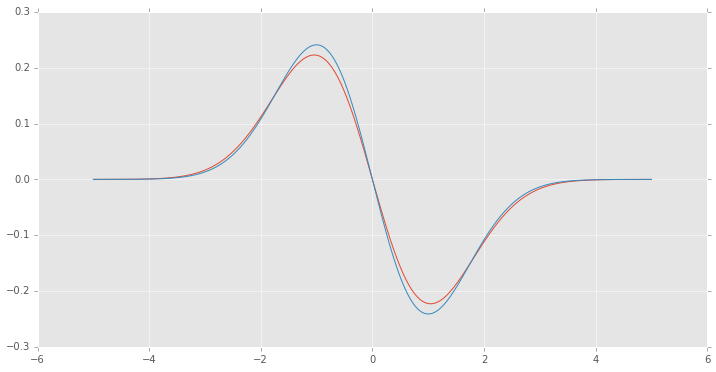
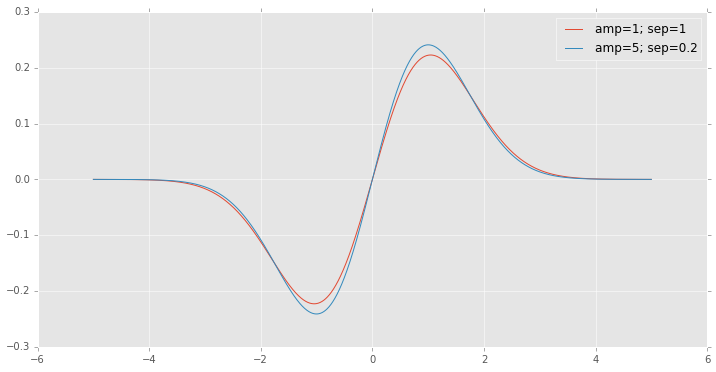
minor update for report

diff --git a/notebooks/simple 2-d dipole plotting - more realistic noise.md b/notebooks/simple 2-d dipole plotting - more realistic noise.md
@@ -18,14 +18,13 @@ matplotlib.rcParams['figure.figsize'] = (12.0, 6.0)
 
 ### Degeneracy between faint, widely-separated dipole and bright, close dipole:
 
-<a id='figure1'></a>
-
 
 ```python
 if True:
     x = np.arange(-5,5, 0.001)
-    plt.plot(x, 1. * (norm.pdf(x, -0.5, 1) - norm.pdf(x, 0.5, 1)))   ## faint, distant diple
-    plt.plot(x, 5. * (norm.pdf(x, -0.1, 1) - norm.pdf(x, 0.1, 1)))   ## bright, close dipole
+    plt.plot(x, 1. * (norm.pdf(x, 0.5, 1) - norm.pdf(x, -0.5, 1)))   ## faint, distant diple
+    plt.plot(x, 5. * (norm.pdf(x, 0.1, 1) - norm.pdf(x, -0.1, 1)))   ## bright, close dipole
+    plt.legend(['amp=1; sep=1', 'amp=5; sep=0.2'])
     plt.show()
 ```
 
@@ -41,16 +40,17 @@ from ipywidgets import interact
 
 def do_plot(amp1=1., sep1=1., amp2=5., sep2=0.2, show_components=True):
     x = np.arange(-5, 5, 0.1)
-    plt.plot(x, amp1 * (norm.pdf(x, -sep1/2., 1) - norm.pdf(x, sep1/2., 1)), color='red')   ## faint, distant diple
-    plt.plot(x, amp2 * (norm.pdf(x, -sep2/2., 1) - norm.pdf(x, sep2/2., 1)), color='blue')   ## bright, close dipole
+    plt.plot(x, amp1 * (norm.pdf(x, sep1/2., 1) - norm.pdf(x, -sep1/2., 1)), color='red')   ## faint, distant diple
+    plt.plot(x, amp2 * (norm.pdf(x, sep2/2., 1) - norm.pdf(x, -sep2/2., 1)), color='blue')   ## bright, close dipole
     if show_components:
-        plt.plot(x, amp1 *  norm.pdf(x, -sep1/2., 1), linestyle='dashed', color='red')
-        plt.plot(x, amp1 * -norm.pdf(x,  sep1/2., 1), linestyle='dashed', color='red')
-        plt.plot(x, amp2 *  norm.pdf(x, -sep2/2., 1), linestyle='dashed', color='blue')
-        plt.plot(x, amp2 * -norm.pdf(x,  sep2/2., 1), linestyle='dashed', color='blue')
+        plt.plot(x, amp1 * -norm.pdf(x, -sep1/2., 1), linestyle='dashed', color='red')
+        plt.plot(x, amp1 *  norm.pdf(x,  sep1/2., 1), linestyle='dashed', color='red')
+        plt.plot(x, amp2 * -norm.pdf(x, -sep2/2., 1), linestyle='dashed', color='blue')
+        plt.plot(x, amp2 *  norm.pdf(x,  sep2/2., 1), linestyle='dashed', color='blue')
         
     plt.plot([-sep1, sep1], [0,0], 'ro')
     plt.plot([-sep2, sep2], [0,0], 'bo')
+    plt.legend(['amp=%.2f; sep=%.2f' % (amp1, sep1), 'amp=%.2f; sep=%.2f' % (amp2, sep2)])
     plt.show()
     
 ##do_plot()
